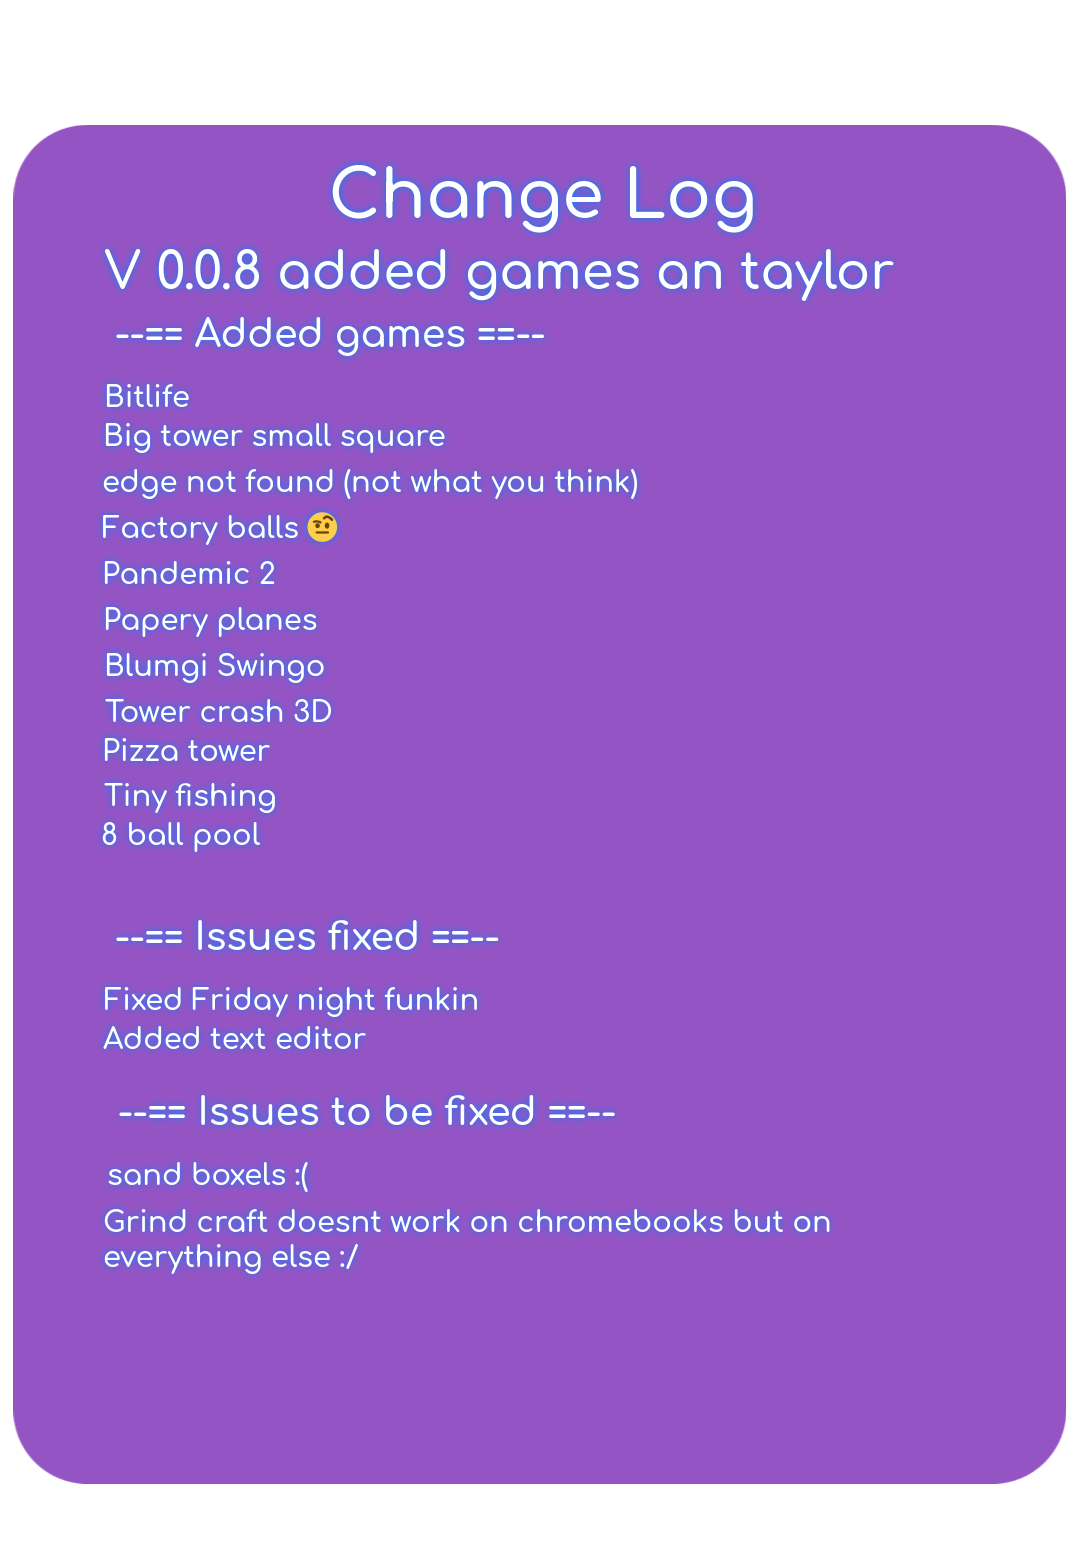
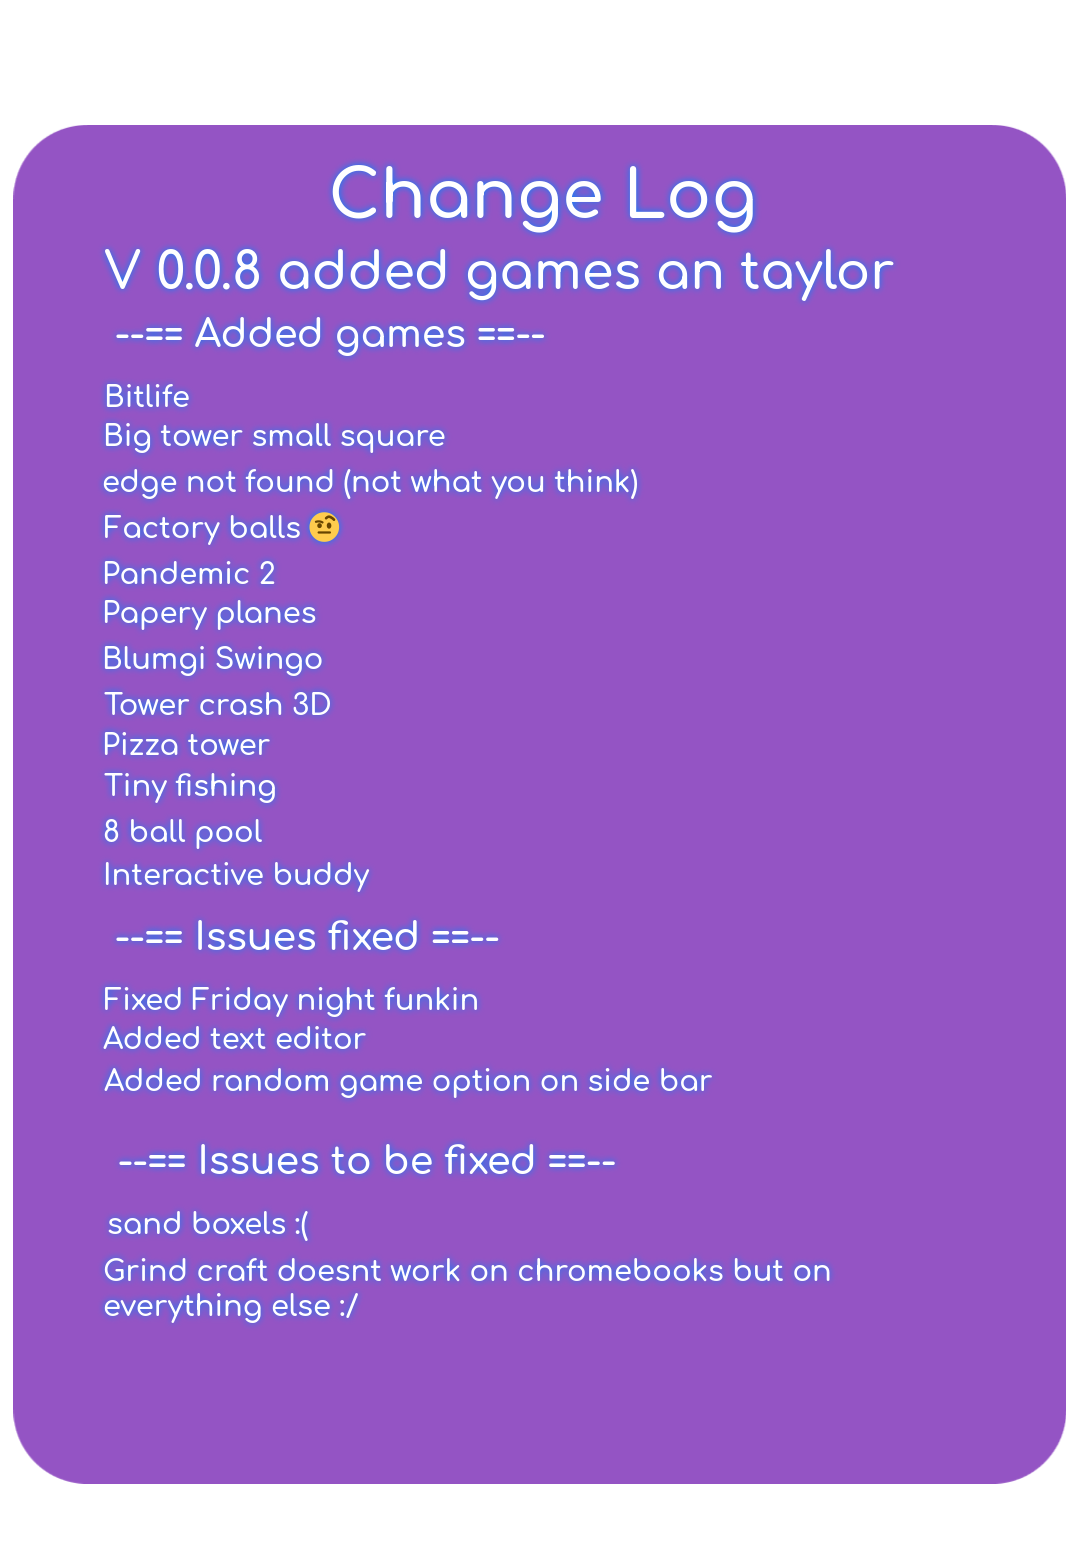
added interactive buddy and added random games option

Changed region(s): [[0.0917, 0.6795, 0.7639, 0.8649], [0.0917, 0.3089, 0.3361, 0.5869]]

diff --git a/index.html b/index.html
@@ -428,7 +428,14 @@
         }
     }
 
-    
+    .randombt {
+       top: 80%;
+       margin-right: 10px;
+       height: 15%;
+       width: 10%;
+       font-size: 1vw;
+       text-align: center;
+    }
   </style>
 
   </head>
@@ -447,6 +454,7 @@
           <input type="text" class="search-bar" id ="search-bar" placeholder="Search">
         </a>
         <a class="active" onclick="toggleNews()" id="CardBT"> <i class="fa fa-newspaper-o"></i><span style="font-size: 24px;">News</span></a>
+        <a class="active" onclick="FeelingLucky()" id="CardBT"> <i class="fa fa-random"></i><span style="font-size: 24px;">Random</span></a>
       </div>
     </div>
     <script>
@@ -624,6 +632,21 @@
     <h1 class="page-title glow" style="font-size: 80px; text-align: center; color: #0084ff;">JustStudy </h1> <!-- <center> <div class="devbox"> <h6>this aint the main site, only dev.<a href="https://metalfoxdev.codeberg.page/juststudy-site/"> Click here to go to the main one</h6> </div> </center> -->
     <h3 class="page-desc" id="desc" class="desc" style="overflow-x:hidden; z-index: 1;">sam taylor wont take us down. this is all legal idiot</h3>
     <script>
+    function FeelingLucky() {
+      fetch('assets/data/index.json')
+      .then(response => response.json())
+      .then(data => {
+        const randomarray = data[Math.floor(Math.random() * data.length)];
+        const link = randomarray["url"]
+        console.log(link);
+        window.location.href = link;
+      })
+      .catch((error) => console.error("Error:", error))
+      .finally(() => {
+          document.getElementById("loader").style.display = "none";
+      });
+}
+        
     function RandomColour() {
         var colour = Math.floor(Math.random() * 6) + 1;
 
@@ -736,10 +759,10 @@
               </div>
               <div class="col">
                   <div class="card text-bg-warning h-100">
-                      <img src="./assets/img/New_Img/editor.jpeg" class="card-img-top" alt="happy">
+                      <img src="./assets/img/New_Img/bored.png" class="card-img-top" alt="happy">
                       <div class="card-body"> 
-                          <h5 class="card-title">Text Editor</h5>
-                          <p class="card-text">Got bored, its in the settings page</p>
+                          <h5 class="card-title">Added a random link button</h5>
+                          <p class="card-text">If you get bored it will load a random game</p>
                       </div>
                   </div>
               </div>
